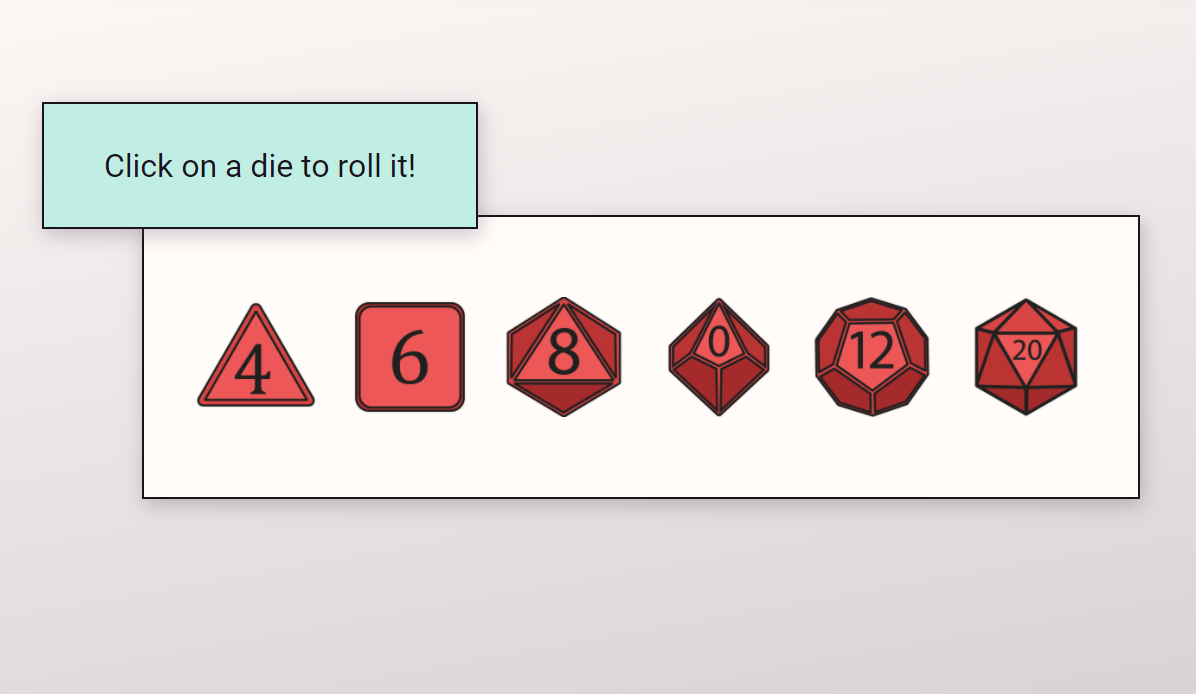
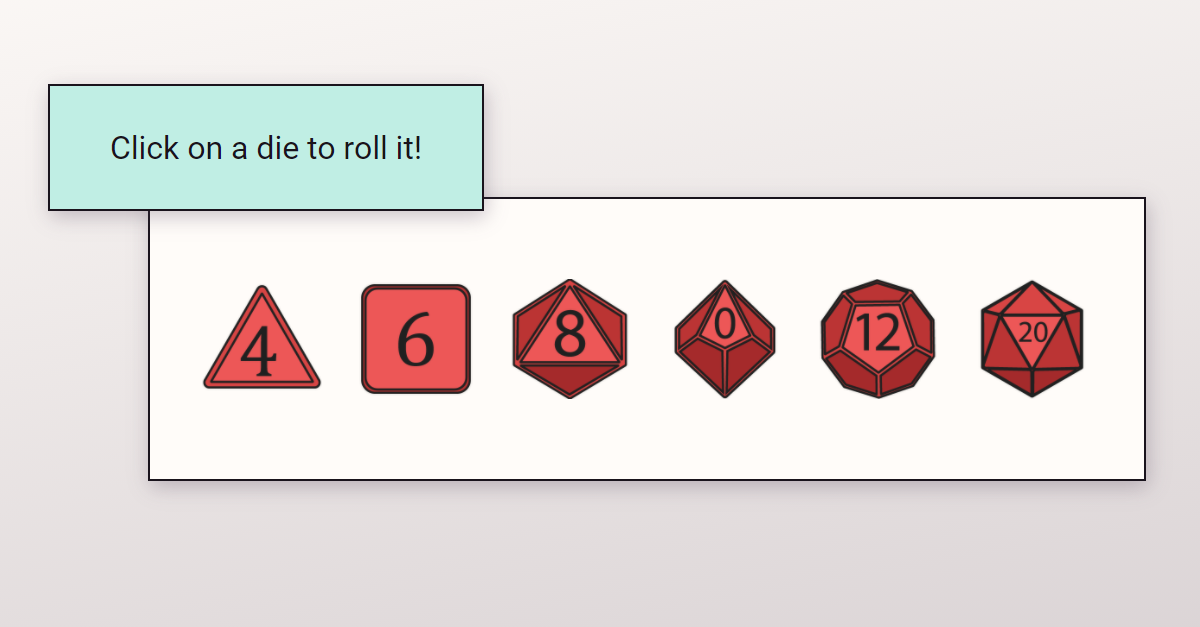
updating thumbnail

Changed region(s): [[0.0309, 0.1212, 0.959, 0.7879], [0.1547, 0.4242, 0.5259, 0.6364], [0.5569, 0.4242, 0.6497, 0.6364]]

diff --git a/index.html b/index.html
@@ -2,7 +2,8 @@
 <html lang="en">
 <head>
     <meta charset="UTF-8">
-    <meta name="viewport" content="width=device-width, initial-scale=1.0" image="./Imgs/theBeautifulDiceThumbnail.png">
+    <meta og:title="Die Roll Generator" og:image="./Imgs/theBeautifulDiceThumbnail.png">
+    <meta name="viewport" content="width=device-width, initial-scale=1.0">
     <title>Behold the Beautiful Dice</title>
     <link href="https://fonts.googleapis.com/css2?family=MuseoModerno:wght@600&display=swap" rel="stylesheet">
     <link href="https://fonts.googleapis.com/css2?family=MuseoModerno:wght@600&family=Roboto&display=swap" rel="stylesheet">
